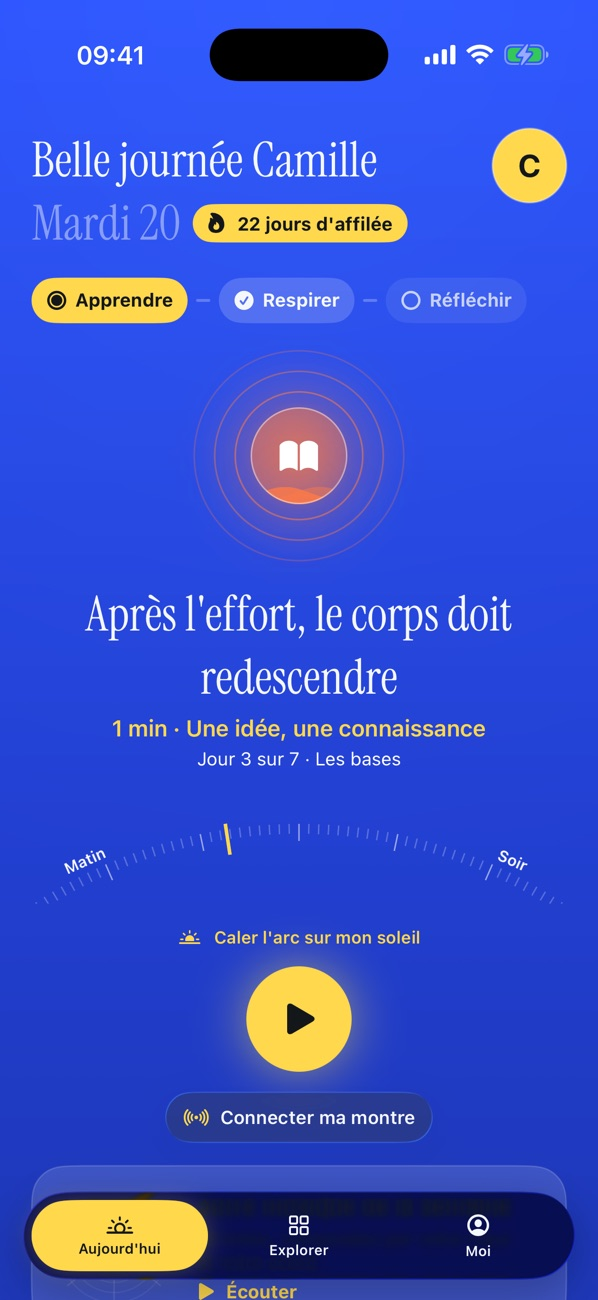
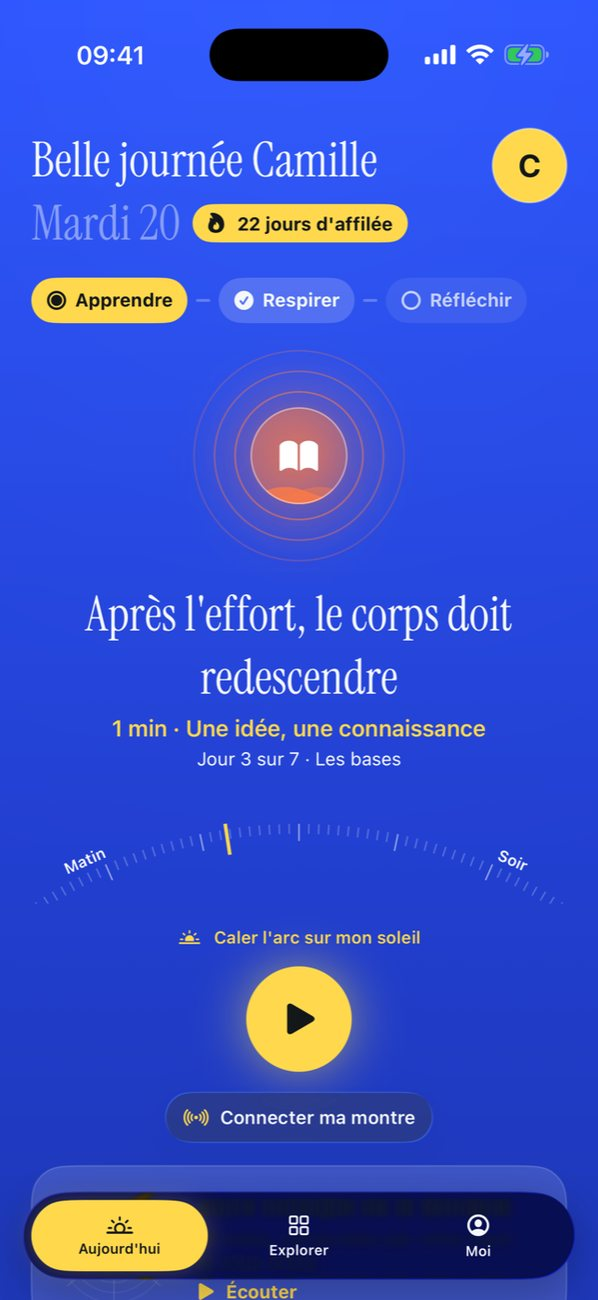
Site Replere : captures Liquid Glass
Accueil, bilan, musique, progression et page Presse avec les captures du 22 octobre.

Claude-Session: https://claude.ai/code/session_01J5uW5gHnW28DdDeuBxR1rw

diff --git a/index.html b/index.html
@@ -46,7 +46,7 @@
         <a class="cta" href="https://testflight.apple.com/join/Gd9Skxgv" rel="noopener">Rejoindre la bêta <span class="dot" aria-hidden="true"></span></a>
         <p class="note cta-note">Gratuit, sur iPhone. Bientôt sur l'App Store ; en attendant, la bêta passe par TestFlight, l'app de test d'Apple : installez-la, puis touchez le bouton depuis votre iPhone.</p>
       </div>
-      <div class="phone"><img src="img/app-parcours.jpg?v=2" alt="L'accueil de Replere : l'étape du moment, Apprendre, puis Respirer et Réfléchir, avec la série de jours d'affilée" width="598" height="1300"></div>
+      <div class="phone"><img src="img/app-parcours.jpg?v=4" alt="L'accueil de Replere : l'étape du moment, Apprendre, puis Respirer et Réfléchir, avec la série de jours d'affilée" width="598" height="1300"></div>
     </section>
 
     <h2>La musique de votre semaine</h2>
@@ -58,8 +58,8 @@
     </p>
     <div class="shots">
       <figure><div class="phone"><img src="img/app-notes.jpg?v=2" alt="Après un exercice : plus 4 notes, les clochettes s'allument sur le disque de la semaine" loading="lazy" width="598" height="1300"></div><figcaption>Après chaque pratique</figcaption></figure>
-      <figure><div class="phone"><img src="img/app-musique.jpg?v=2" alt="La musique de la semaine : le bras se pose et le disque tourne, chaque note s'allume en passant" loading="lazy" width="598" height="1300"></div><figcaption>Le disque de la semaine</figcaption></figure>
-      <figure><div class="phone"><img src="img/app-moi.jpg?v=2" alt="La page Moi : la musique, le programme, les trois piliers et le rythme" loading="lazy" width="598" height="1300"></div><figcaption>Ce que vous construisez</figcaption></figure>
+      <figure><div class="phone"><img src="img/app-musique.jpg?v=4" alt="La musique de la semaine : le bras se pose et le disque tourne, chaque note s'allume en passant" loading="lazy" width="598" height="1300"></div><figcaption>Le disque de la semaine</figcaption></figure>
+      <figure><div class="phone"><img src="img/app-moi.jpg?v=4" alt="La progression : les trois piliers de la semaine, l'année pratiquée, la série" loading="lazy" width="598" height="1300"></div><figcaption>Ce que vous construisez</figcaption></figure>
     </div>
 
     <section class="live" aria-labelledby="titre-live">
@@ -94,7 +94,7 @@
       <figure><div class="phone"><img src="img/app-lecon.jpg?v=2" alt="La leçon du jour : après l'effort, le corps doit redescendre, avec le rappel de la leçon d'hier" loading="lazy" width="598" height="1300"></div><figcaption>Apprendre</figcaption></figure>
       <figure><div class="phone"><img src="img/app-player.jpg?v=3" alt="Une séance en cours : la voix guide, le fond respire, le cœur se trace en direct" loading="lazy" width="598" height="1300"></div><figcaption>Respirer</figcaption></figure>
       <figure><div class="phone"><img src="img/app-exercice.jpg?v=2" alt="L'exercice Les mots : retenir sept mots en quelques secondes, puis les écrire de mémoire" loading="lazy" width="598" height="1300"></div><figcaption>Réfléchir</figcaption></figure>
-      <figure><div class="phone"><img src="img/app-bilan.jpg?v=2" alt="Le bilan du jour : journée réussie, « Bravo » écrit à la main, et ce que vous retenez" loading="lazy" width="598" height="1300"></div><figcaption>Le bilan</figcaption></figure>
+      <figure><div class="phone"><img src="img/app-bilan.jpg?v=4" alt="Le bilan du jour : journée réussie, « Bravo » écrit à la main, et ce que vous retenez" loading="lazy" width="598" height="1300"></div><figcaption>Le bilan</figcaption></figure>
     </div>
 
     <h2>En bonus : la tête aussi</h2>

diff --git a/presse.html b/presse.html
@@ -54,9 +54,9 @@
 
     <h2>Visuels à télécharger</h2>
     <div class="shots">
-      <figure><a href="img/presse/01-accueil.jpg"><div class="phone"><img src="img/presse/01-accueil.jpg" alt="L'accueil de Replere" loading="lazy"></div></a><figcaption>Accueil</figcaption></figure>
-      <figure><a href="img/presse/02-seances.jpg"><div class="phone"><img src="img/presse/02-seances.jpg" alt="Le catalogue de séances" loading="lazy"></div></a><figcaption>Séances</figcaption></figure>
-      <figure><a href="img/presse/03-seance.jpg"><div class="phone"><img src="img/presse/03-seance.jpg" alt="Une séance en cours" loading="lazy"></div></a><figcaption>En séance</figcaption></figure>
+      <figure><a href="img/presse/01-accueil.jpg?v=2"><div class="phone"><img src="img/presse/01-accueil.jpg?v=2" alt="L'accueil de Replere" loading="lazy"></div></a><figcaption>Accueil</figcaption></figure>
+      <figure><a href="img/presse/02-seances.jpg?v=2"><div class="phone"><img src="img/presse/02-seances.jpg?v=2" alt="Le catalogue de séances" loading="lazy"></div></a><figcaption>Séances</figcaption></figure>
+      <figure><a href="img/presse/03-seance.jpg?v=2"><div class="phone"><img src="img/presse/03-seance.jpg?v=2" alt="Une séance en cours" loading="lazy"></div></a><figcaption>En séance</figcaption></figure>
     </div>
     <ul>
       <li><a href="img/presse/04-semaine.jpg">Capture : santé et semaine</a> · <a href="img/presse/05-progression.jpg">Capture : progression</a> · <a href="img/presse/07-coeur.jpg">Capture : le cœur qui redescend</a> · <a href="img/presse/06-reglages.jpg">Capture : réglages</a></li>
